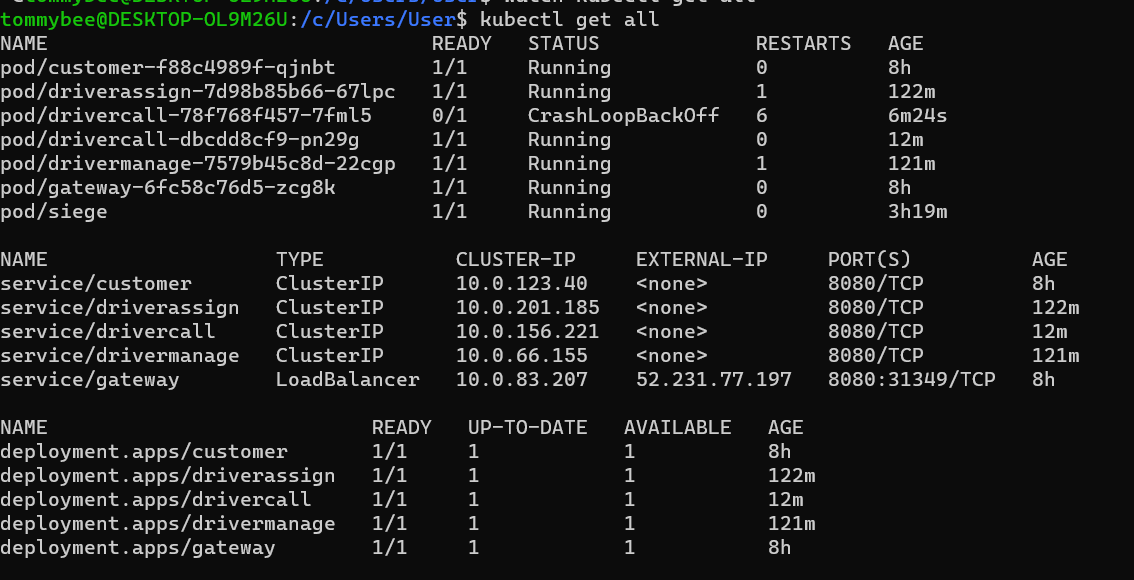
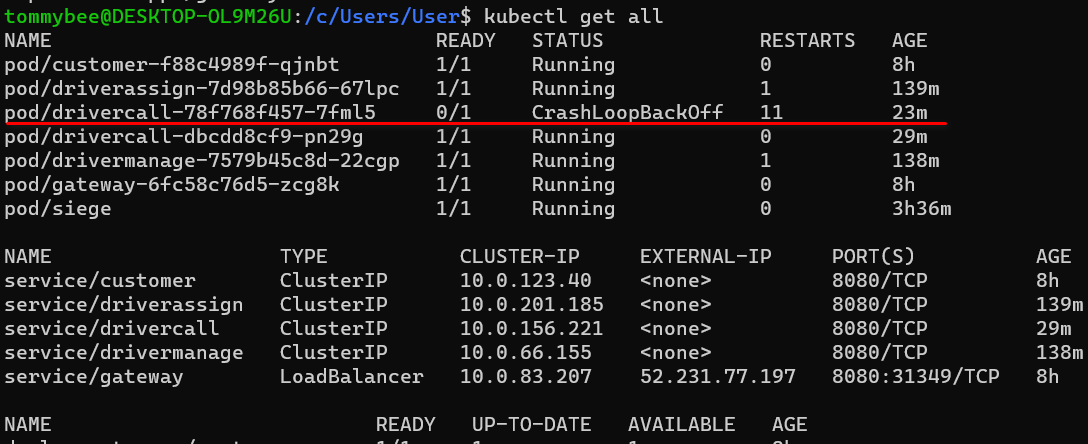
commit 9

diff --git a/drivercenter/drivercall/src/main/java/drivercenter/Drivercall.java b/drivercenter/drivercall/src/main/java/drivercenter/Drivercall.java
@@ -53,12 +53,16 @@ public class Drivercall {
 	        	.reqDriverassign(drivermanage);
 		}
     	
+    	//kubectl create configmap delay-conf --from-literal=sleeptime=20
+    	Long defaultSleep = Long.valueOf(System.getenv().getOrDefault("SLEEP_ME", "0"));
     	
-//    	try {
-//			Thread.sleep(5000);
-//		} catch (InterruptedException e) {
-//			e.printStackTrace();
-//		}
+    	System.out.println("SLEEPING.............." + defaultSleep);
+    	
+    	try {
+			Thread.sleep(defaultSleep);
+		} catch (InterruptedException e) {
+			e.printStackTrace();
+		}
 
     }
 

diff --git a/README.md b/README.md
@@ -645,7 +645,7 @@ drivercall > deployment.yml 설정
 ![image](https://user-images.githubusercontent.com/73699193/98187434-44fbd200-1f54-11eb-9859-daf26f812788.png)
 
 ```
-kubectl autoscale deploy drivercall --min=1 --max=2 --cpu-percent=15
+kubectl autoscale deploy drivercall --min=1 --max=10 --cpu-percent=15
 ```
 ![스트레스테스트](screenshots/replica.png "replica")
 
@@ -715,44 +715,50 @@ watch kubectl get all
 
 ## Config Map
 
-- apllication.yml 설정
+코드를 다음과 같이 구성합니다.
+```
+Long defaultSleep = Long.valueOf(System.getenv().getOrDefault("SLEEP_ME", "0"));
+    	
+System.out.println("SLEEPING.............." + defaultSleep);
 
-* default쪽
-
-![image](https://user-images.githubusercontent.com/73699193/98108335-1c85c080-1edf-11eb-9d0f-1f69e592bb1d.png)
-
-* docker 쪽
-
-![image](https://user-images.githubusercontent.com/73699193/98108645-ad5c9c00-1edf-11eb-8d54-487d2262e8af.png)
+try {
+	Thread.sleep(defaultSleep);
+} catch (InterruptedException e) {
+	e.printStackTrace();
+}
+```
+![스트레스테스트](screenshots/code.png "completed")
 
 - Deployment.yml 설정
 
-![image](https://user-images.githubusercontent.com/73699193/98108902-12b08d00-1ee0-11eb-8f8a-3a3ea82a635c.png)
+![스트레스테스트](screenshots/code2.png "completed")
 
 - config map 생성 후 조회
 ```
-kubectl create configmap apiurl --from-literal=url=http://pay:8080 --from-literal=fluentd-server-ip=10.xxx.xxx.xxx -n phone82
+kubectl create configmap delay-conf --from-literal=sleeptime=20
 ```
-![image](https://user-images.githubusercontent.com/73699193/98107784-5bffdd00-1ede-11eb-8da6-82dbead0d64f.png)
+![스트레스테스트](screenshots/confmap.png "confmap")
 
-- 설정한 url로 주문 호출
+- url을 호출하고 pod의 로그를 다음과 같이 확인 합니다.
 ```
-http POST http://app:8080/orders item=dfdf1 qty=21
+http http://52.231.77.197:8080/drivercalls/ tel="01012345678" location="마포아파트" status="호출" cost=30000
 ```
+![스트레스테스트](screenshots/logconfirm.png "logconfirm")
 
-![image](https://user-images.githubusercontent.com/73699193/98109319-b732cf00-1ee0-11eb-9e92-ad0e26e398ec.png)
+- configmap 삭제 후 drivercall 서비스 재시작
+```
+kubectl delete configmap delay-conf -n skuser08ns
+kubectl get pod/drivercall-69b68f4bbf-mj58g -n skuser08ns -o yaml | kubectl replace --force -f-
+```
+![스트레스테스트](screenshots/del1.png "del1")
 
-- configmap 삭제 후 app 서비스 재시작
+- configmap 삭제된 상태에서 서비스 호출   
 ```
-kubectl delete configmap apiurl -n phone82
-kubectl get pod/app-56f677d458-5gqf2 -n phone82 -o yaml | kubectl replace --force -f-
+http http://52.231.77.197:8080/drivercalls/ tel="01012345678" location="마포아파트" status="호출" cost=30000
 ```
-![image](https://user-images.githubusercontent.com/73699193/98110005-cf571e00-1ee1-11eb-973f-2f4922f8833c.png)
+![스트레스테스트](screenshots/error0.png "error0")
 
-- configmap 삭제된 상태에서 주문 호출   
-```
-http POST http://app:8080/orders item=dfdf2 qty=22
-```
+![스트레스테스트](screenshots/error.png "error")
 ![image](https://user-images.githubusercontent.com/73699193/98110323-42f92b00-1ee2-11eb-90f3-fe8044085e9d.png)
 
 ![image](https://user-images.githubusercontent.com/73699193/98110445-720f9c80-1ee2-11eb-851e-adcd1f2f7851.png)
@@ -786,7 +792,6 @@ livenessProbe:
 
 ![스트레스테스트](screenshots/livenessProbe2.png "livenessProbe")
 
-- store 서비스의 liveness가 발동되어 13번 retry 시도 한 부분 확인
+- store 서비스의 liveness가 발동되어 11번 retry 시도 한 부분 확인
 
-![image](https://user-images.githubusercontent.com/27958588/98096461-20a9e200-1ecf-11eb-8b02-364162baa355.jpg)
-
+![스트레스테스트](screenshots/livenessProbe3.png "livenessProbe")
